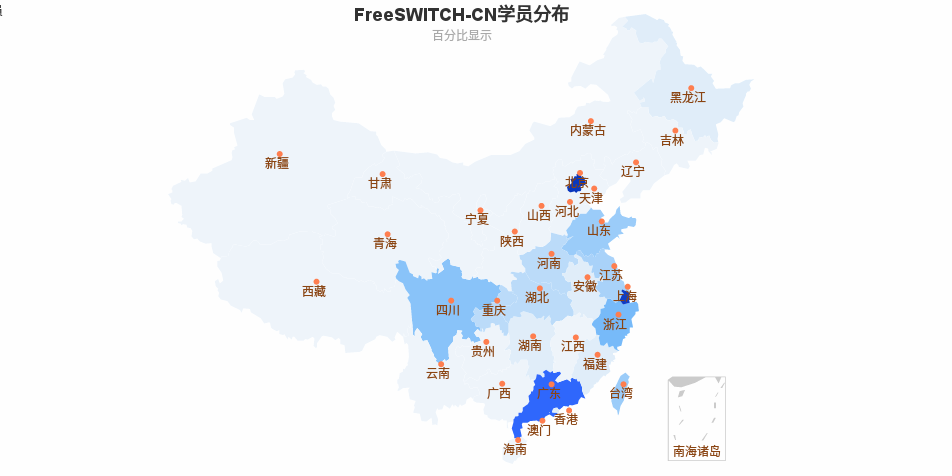
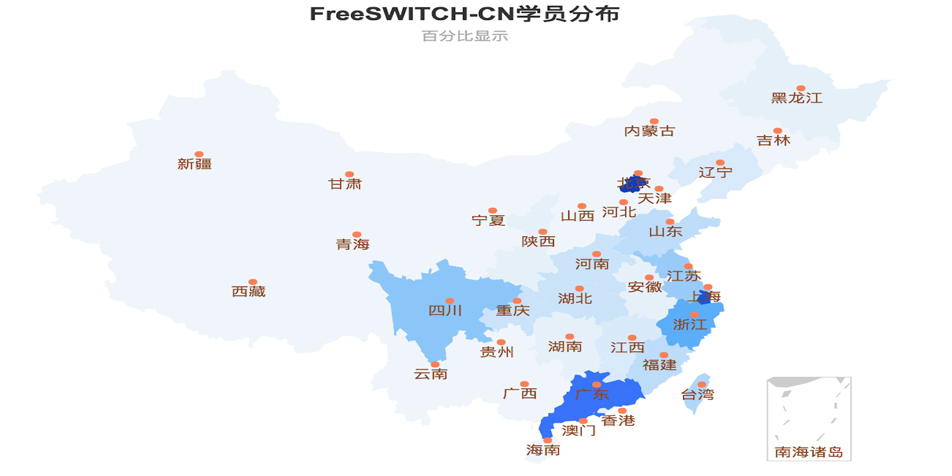
add student

diff --git a/_layouts/student.html b/_layouts/student.html
@@ -1,0 +1,315 @@
+<!DOCTYPE html>
+<html lang="en">
+<head>
+  <meta charset="utf-8">
+  <meta http-equiv="content-type" content="text/html; charset=utf-8" />
+  <meta name="keywords" content="FreeSWITCH培训 小樱桃" />
+  <meta name="description" content="{{ site.com }}" />
+  <title>{{ page.title }} - {{ site.com }}</title>
+  <meta name="viewport" content="width=device-width, initial-scale=1.0">
+  <meta name="description" content="">
+  <meta name="author" content="">
+
+  <link href="/feed.xml" rel="alternate" title="{{ site.com }}" type="application/rss+xml" />
+  <link href="/atom.xml" rel="alternate" title="{{ site.com }}" type="application/atom+xml" />
+  <link href="/assets/stylesheets/bootstrap.css" rel="stylesheet">
+  <link href="/assets/stylesheets/bootstrap-responsive.min.css" rel="stylesheet">
+  <style type="text/css">
+    body {
+      /*padding-top: 60px;*/
+      padding-bottom: 40px;
+    }
+    h1,h2 {
+      margin-bottom: 20px !important;
+    }
+
+    li.post_list {
+      display: block;
+      margin-right: 15pt;
+      margin-bottom: 10pt;
+      padding: 5pt;
+      float: left;
+      border: 1px solid #999999;
+      width: 260px;
+    }
+  </style>
+
+  <!-- Le HTML5 shim, for IE6-8 support of HTML5 elements -->
+  <!--[if lt IE 9]>
+    <script src="http://html5shim.googlecode.com/svn/trunk/html5.js"></script>
+  <![endif]-->
+
+  <!-- Le fav and touch icons -->
+</head>
+
+<body data-spy="scroll" data-target=".subnav" data-offset="50">
+  <!-- Navbar ================================================== -->
+  <div class="navbar navbar-fixed-top">
+    <div class="xnavbar-inner">
+      <div class="container-fluid">
+        <div class="span12">
+          <br>
+          <a href="/" style="float:right">返回首页</a>
+        </div>
+        <!-- span12 -->
+      </div>
+    </div>
+    <!--navbar-inner-->
+  </div>
+  <!-- container -->
+  <div class="container">
+    <div class="row-fluid">
+      <div class="span12">
+        <!-- 为ECharts准备一个具备大小（宽高）的Dom -->
+        <div id="main" style="height:480px"></div>
+        <!-- ECharts单文件引入 -->
+        <script src="http://echarts.baidu.com/build/dist/echarts.js"></script>
+        <script type="text/javascript">
+        // 路径配置
+        require.config({
+          paths: {
+            echarts: 'http://echarts.baidu.com/build/dist'
+          }
+        });
+        // 使用
+        require(
+          [
+            'echarts',
+            'echarts/chart/map' // 使用地图就加载map模块，按需加载
+          ],
+          function(ec) {
+            // 基于准备好的dom，初始化echarts图表
+            var myChart = ec.init(document.getElementById('main'));
+
+            option = {
+              title: {
+                text: 'FreeSWITCH-CN学员分布',
+                subtext: '百分比显示',
+                x: 'center'
+              },
+              tooltip: {
+                trigger: 'item',
+                formatter: '{a}<br>{b}:{c}%'
+              },
+              legend: {
+                orient: 'vertical',
+                x: 'left',
+                data: ['FreeSWITCH学员']
+              },
+              dataRange: {
+                min: 0,
+                max: 25,
+                x: 'left',
+                y: 'bottom',
+                text: ['高', '低'], // 文本，默认为数值文本
+                calculable: true,
+                color: ['#0431B4', '#2E64FE', '#58ACFA', '#EFF5FB']
+              },
+              toolbox: {
+                show: true,
+                orient: 'vertical',
+                x: 'right',
+                y: 'center',
+                feature: {
+                  mark: {
+                    show: true
+                  },
+                  dataView: {
+                    show: true,
+                    readOnly: false
+                  },
+                  restore: {
+                    show: true
+                  },
+                  saveAsImage: {
+                    show: true
+                  }
+                }
+              },
+              roamController: {
+                show: true,
+                x: 'right',
+                mapTypeControl: {
+                  'china': true
+                }
+              },
+              series: [{
+                  name: 'FreeSWITCH学员',
+                  type: 'map',
+                  mapType: 'china',
+                  roam: false,
+                  itemStyle: {
+                    normal: {
+                      label: {
+                        show: true
+                      }
+                    },
+                    emphasis: {
+                      label: {
+                        show: true
+                      }
+                    }
+                  },
+                  data: [{
+                    name: '北京',
+                    value: 23.78
+                  }, {
+                    name: '天津',
+                    value: 0
+                  }, {
+                    name: '上海',
+                    value: 20.28
+                  }, {
+                    name: '重庆',
+                    value: 2.10
+                  }, {
+                    name: '河北',
+                    value: 0
+                  }, {
+                    name: '河南',
+                    value: 2.10
+                  }, {
+                    name: '云南',
+                    value: 0
+                  }, {
+                    name: '辽宁',
+                    value: 1.40
+                  }, {
+                    name: '黑龙江',
+                    value: 0.70
+                  }, {
+                    name: '湖南',
+                    value: 0.70
+                  }, {
+                    name: '安徽',
+                    value: 0.70
+                  }, {
+                    name: '山东',
+                    value: 2.80
+                  }, {
+                    name: '新疆',
+                    value: 0
+                  }, {
+                    name: '江苏',
+                    value: 4.90
+                  }, {
+                    name: '浙江',
+                    value: 8.39
+                  }, {
+                    name: '江西',
+                    value: 1.40
+                  }, {
+                    name: '湖北',
+                    value: 2.10
+                  }, {
+                    name: '广西',
+                    value: 0
+                  }, {
+                    name: '甘肃',
+                    value: 0
+                  }, {
+                    name: '山西',
+                    value: 0
+                  }, {
+                    name: '内蒙古',
+                    value: 0
+                  }, {
+                    name: '陕西',
+                    value: 0.70
+                  }, {
+                    name: '吉林',
+                    value: 0
+                  }, {
+                    name: '福建',
+                    value: 2.80
+                  }, {
+                    name: '贵州',
+                    value: 0
+                  }, {
+                    name: '广东',
+                    value: 15.38
+                  }, {
+                    name: '青海',
+                    value: 0
+                  }, {
+                    name: '西藏',
+                    value: 0
+                  }, {
+                    name: '四川',
+                    value: 5.59
+                  }, {
+                    name: '宁夏',
+                    value: 0
+                  }, {
+                    name: '海南',
+                    value: 0
+                  }, {
+                    name: '台湾',
+                    value: 3.50
+                  }, {
+                    name: '香港',
+                    value: 0.70
+                  }, {
+                    name: '澳门',
+                    value: 0
+                  }]
+                },
+
+              ]
+            };
+
+
+            // 为echarts对象加载数据
+            // myChart.setTheme('blue');
+            myChart.setTheme('theme/blue');
+            // myChart.setTheme({color:['red','green']});
+            myChart.setOption(option);
+          }
+        );
+        </script>
+        {{ content }}
+      </div>
+    </div>
+  </div>
+  <br style="clear:both" />
+  <footer>
+    <div style="text-align:center">
+      Copyright &copy; FreeSWITCH-CN.
+      <br /> CSS template from
+      <a href="http://www.freecsstemplates.org/preview/replenish">Replenish</a> ... Site maintained by <a href="http://about.me/dujinfang" target="_blank">Seven</a> 版权所有 &copy; 2011-2015. www.freeswitch.org.cn
+      <br>
+    </div>
+  </footer>
+  <script type="text/javascript">
+  var _gaq = _gaq || [];
+  _gaq.push(['_setAccount', 'UA-6189983-5']);
+  _gaq.push(['_trackPageview']);
+
+  (function() {
+    var ga = document.createElement('script');
+    ga.type = 'text/javascript';
+    ga.async = true;
+    ga.src = ('https:' == document.location.protocol ? 'https://ssl' : 'http://www') + '.google-analytics.com/ga.js';
+    var s = document.getElementsByTagName('script')[0];
+    s.parentNode.insertBefore(ga, s);
+  })();
+  </script>
+  </div>
+  <!-- Le javascript ================================================== -->
+  <!-- Placed at the end of the document so the pages load faster -->
+  <!-- Load JQuery -->
+  <script src="/assets/javascripts/libs/jquery-1.7.2.min.js" type="text/javascript" charset="utf-8"></script>
+  <!-- Load Bootstrap -->
+  <script src="/assets/javascripts/libs/bootstrap.js" type="text/javascript" charset="utf-8"></script>
+  <!-- Load Bootstrap Plugins-->
+  <!-- Load Backbone -->
+  <script src="/assets/javascripts/libs/underscore.js" type="text/javascript" charset="utf-8"></script>
+  <script src="/assets/javascripts/libs/backbone.js" type="text/javascript" charset="utf-8"></script>
+  <script src="/assets/javascripts/libs/rails.js" type="text/javascript" charset="utf-8"></script>
+  <script type="text/javascript">
+  var _bdhmProtocol = (("https:" == document.location.protocol) ? " https://" : " http://");
+  document.write(unescape("%3Cscript src='" + _bdhmProtocol + "hm.baidu.com/h.js%3Fdb349701f6bfc696483a1164f4f6d90d' type='text/javascript'%3E%3C/script%3E"));
+  </script>
+</body>
+
+</html>

diff --git a/student.md b/student.md
@@ -1,0 +1,15 @@
+---
+layout: student
+title: FreeSWITCH-CN各省学员分布图
+---
+
+<head>
+    <meta charset="utf-8">
+    <title>ECharts</title>
+</head>
+<body>
+    <br style="clear:both"/>
+    <br style="clear:both"/>
+    <br style="clear:both"/>
+</body>
+
